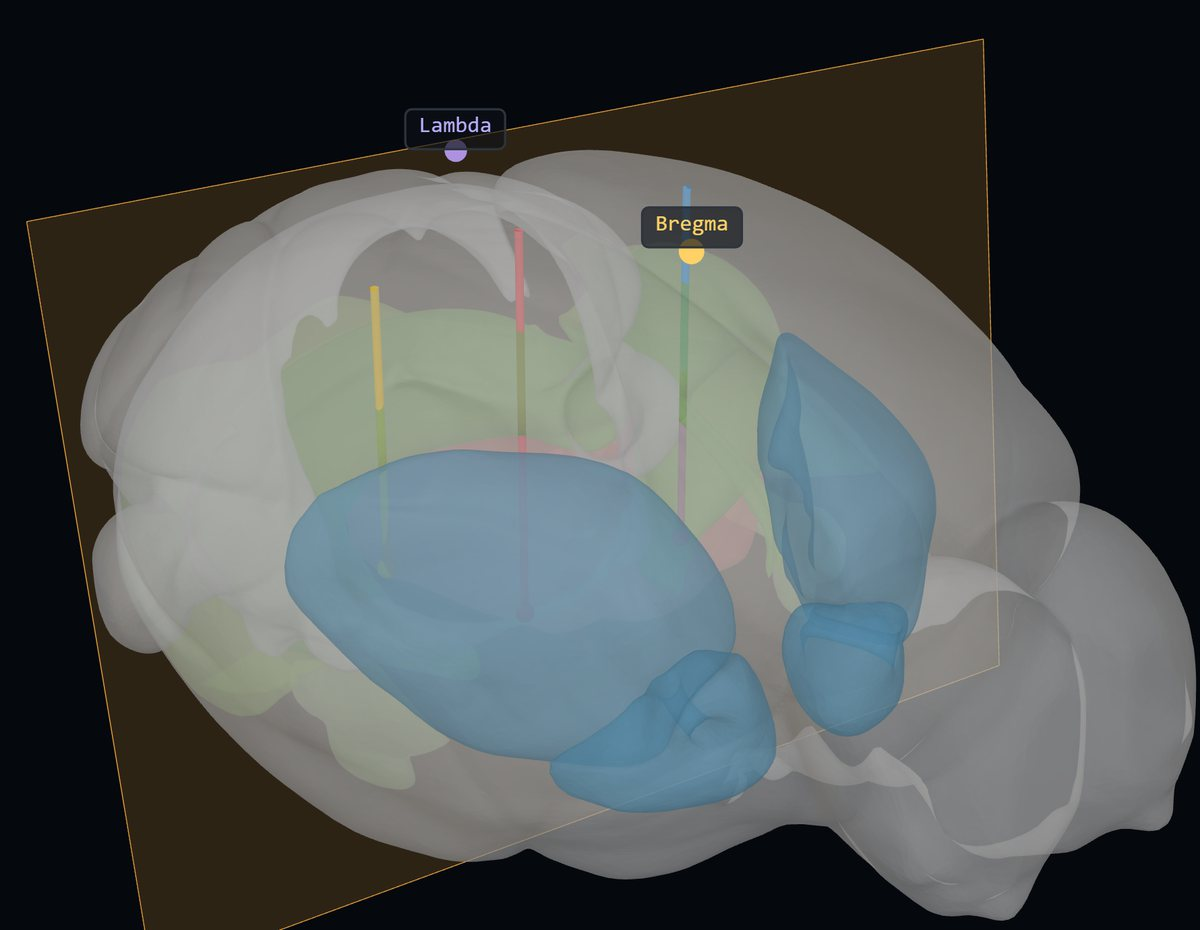
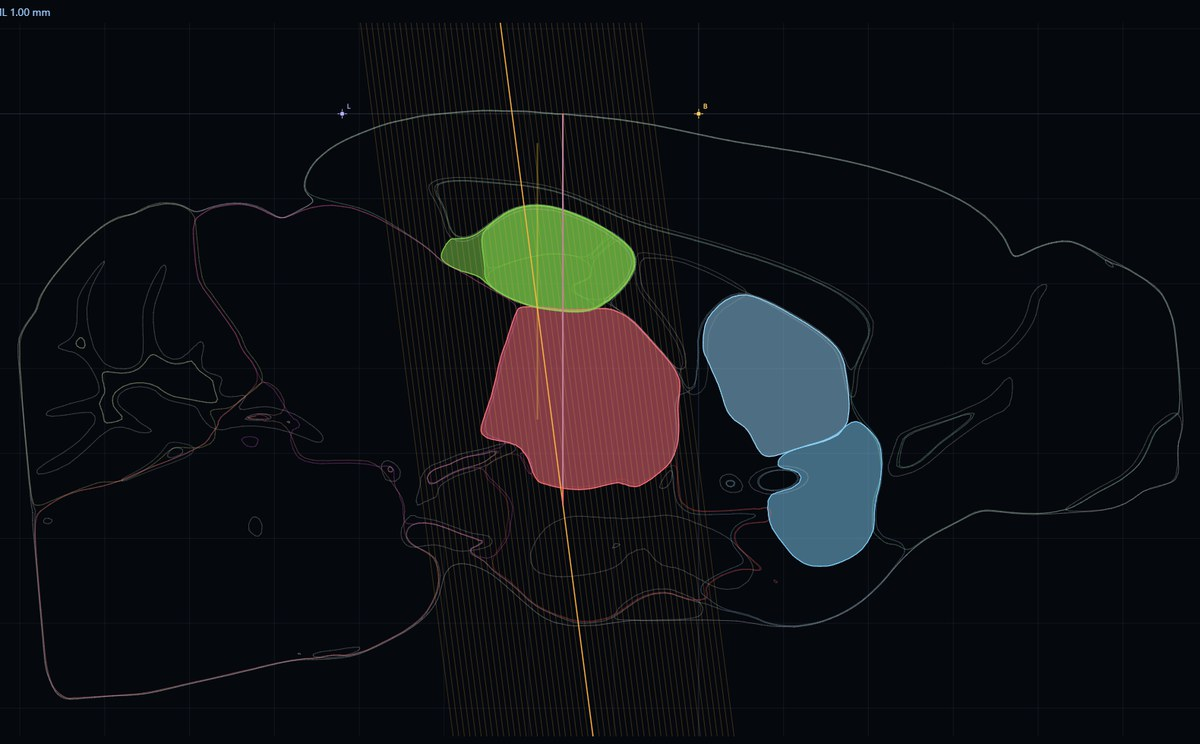
Landing page: Slicer card shows the sagittal view of the tilted sections

diff --git a/index.html b/index.html
@@ -120,7 +120,7 @@ footer p{margin:3px 0}
     </article>
 
     <article class="app slicer">
-      <a class="shot" href="slicer.html"><img src="img/slicer.jpg" alt="Allen CCF Slicer: tilted cutting plane through the 3D brain with three tracks" loading="eager"></a>
+      <a class="shot" href="slicer.html"><img src="img/slicer.jpg" alt="Allen CCF Slicer: sagittal section showing the tilted cutting plane and its neighbouring sections" loading="eager"></a>
       <div class="body">
         <div class="tag">Match histology</div>
         <h2>Allen CCF Slicer</h2>
